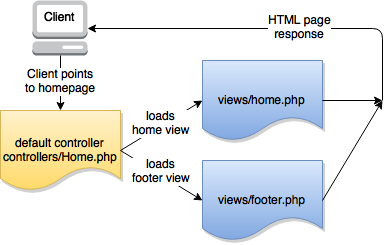
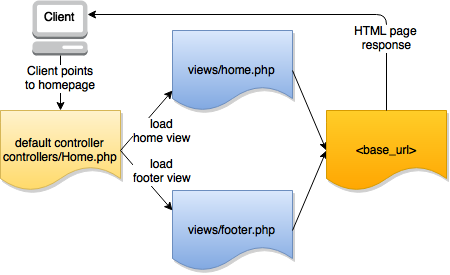
add toc to readme
added a table of contents to readme. Replaced homepage flow image.

diff --git a/README.md b/README.md
@@ -2,7 +2,23 @@
 
 <a href="http://hgtr.b12x.org" target="_blank">Visit The HGTR Site</a>
 
-A php web application with forms for entering metadata on genotyping tests and kits for histoimmunogenetics. The forms then generate xml files similar to the standard from the Genetic Testing Registry (GTR).
+A php web application with forms for entering metadata on genotyping tests and kits for histoimmunogenetics. The forms then generate xml files similar to the standard from the [NCBI Genetic Testing Registry (GTR)](http://www.ncbi.nlm.nih.gov/gtr/).
+
+**Table of Contents**
+
+- [HGTR: Histoimmunogenetics Genotyping Test Registration](#hgtr-histoimmunogenetics-genotyping-test-registration)
+ 	- [Structure](#structure)
+		- [Filesystem](#filesystem)
+		- [Database](#database)
+	- [Development and Deployment](#development-and-deployment)
+		- [Local Development](#local-development)
+	- [Understanding the code](#understanding-the-code)
+		- [MVC](#mvc)
+		- [Walk-Through](#walk-through)
+			- [Home Page](#home-page)
+			- [Kit Form](#kit-form)
+			- [XML Download](#xml-download)
+		- [Additional Libraries and Packages](#additional-libraries-and-packages)
 
 ## Structure
 
@@ -41,6 +57,8 @@ When working with this code locally, I suggest running it on an Apache Server wi
 This site was written in PHP on the [CodeIgniter Web Framework](http://codeigniter.com).
 CodeIgniter is a PHP Framework that is loosely based on MVC (Models-Views-Controllers) or sometimes argued as PAC (Presentation-Abstraction-Control)
 
+#### MVC
+
 From CodeIgniter's site:
 
 "MVC separates application logic from presentation. It permits your web page to contain minimal scripting since the presentation is separate from the PHP scripting.
@@ -64,6 +82,8 @@ All of the files within the above directories are PHP, so any other languages, s
 Other libraries or filetypes used to help construct the views, such as javascript, css, or images, can be stored within the assets directory [here](HGTR/assets)
 
 #### Walk-Through
+
+Below is a walk-through of a typical use-case of the website and how the components of the framework interact.
 
 ##### Home Page
 
@@ -114,7 +134,7 @@ suggestion value is placed in the attribute, and for all such inputs the element
 Some values are fixed for this XML document build. This controller is where any edits or updates need to be made for such fixed values. It is also where new fields or changes to the schema need to be reflected. At the end of the document build, the XML document is saved to a string which is named and a PHP function forces a download of the XML file to the client's machine. No views are loaded, the page does not redirect, the button submit action will POST to this controller
 that builds the document and downloads it in place.
 
-##### Additional Libraries and Packages
+#### Additional Libraries and Packages
 
 The [jQuery](https://jquery.com/) library is loaded for the dynamic functionality of many pages.
 
